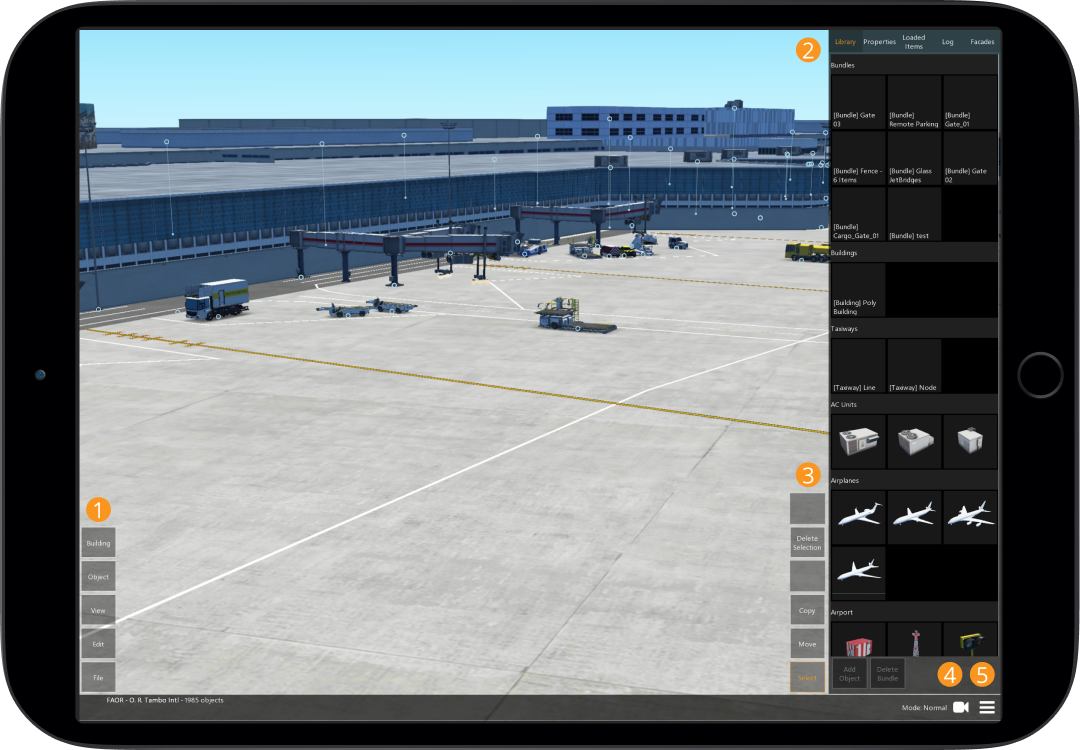
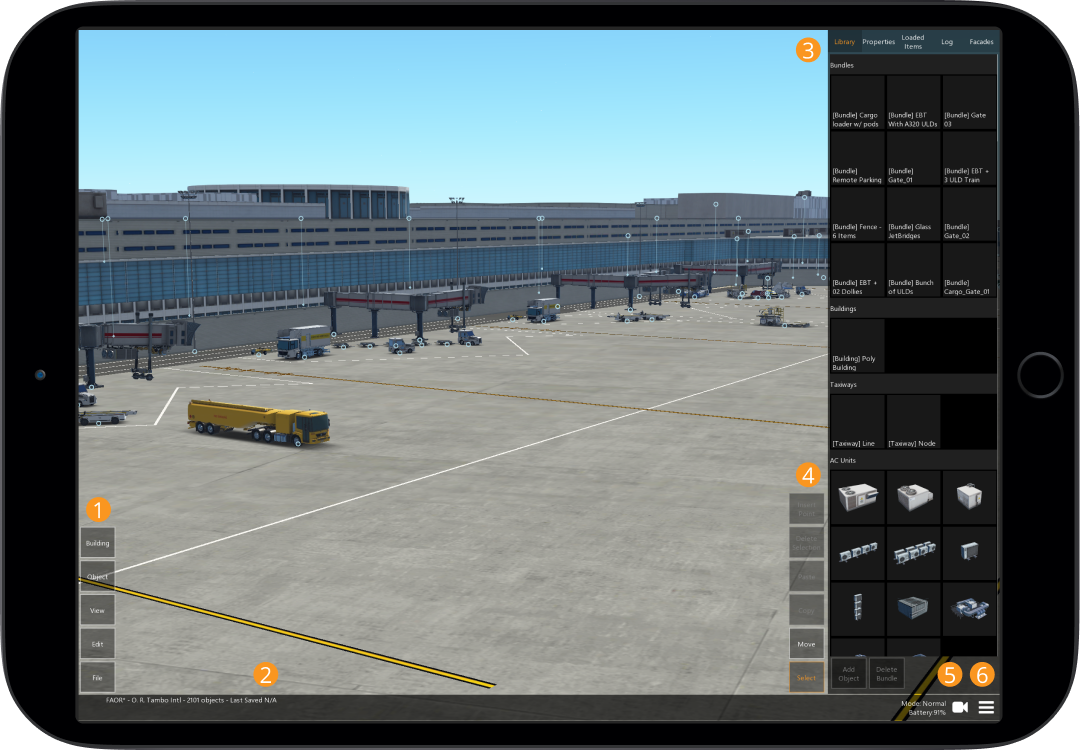
Staging Update
- [FIX: SCENERY EDITOR GUIDE] added final fixes for V2

diff --git a/scenery-editor/user-interface/editor-screen.md b/scenery-editor/user-interface/editor-screen.md
@@ -19,19 +19,23 @@ Welcome to the editor screen within the Infinite Flight app. Below you’ll find
 
     
 
-2. The main [navigation bar](/guide/scenery-editor/user-interface/editor-screen#navigation-bar) allows you to change between the library of objects, properties, loaded items, log and facades
+2. When a new editing session is started (even if you remain in-app), it will reset the "Last Saved" on the bottom bar to "N/A" (note: anything previously saved will still be there as the "last saved" information is only specific to the current editing session)
 
     
 
-3. The [edit buttons](/guide/scenery-editor/user-interface/editor-screen#edit-buttons) allow you to move, copy & paste, or deleted selected buildings and objects (you can also insert points if a building is selected)
+3. The main [navigation bar](/guide/scenery-editor/user-interface/editor-screen#navigation-bar) allows you to change between the library of objects, properties, loaded items, log and facades
 
-    
+     
 
-4. The [camera](/guide/scenery-editor/user-interface/editor-screen#camera) in use can be changed here
+4. The [edit buttons](/guide/scenery-editor/user-interface/editor-screen#edit-buttons) allow you to move, copy & paste, or deleted selected buildings and objects (you can also insert points if a building is selected)
 
-    
+     
 
-5. The [settings](/guide/scenery-editor/user-interface/editor-screen#settings) page can be shown by tapping this button
+5. The [camera](/guide/scenery-editor/user-interface/editor-screen#camera) in use can be changed here
+
+   
+
+6. The [settings](/guide/scenery-editor/user-interface/editor-screen#settings) page can be shown by tapping this button
 
 
 
@@ -63,17 +67,11 @@ Welcome to the editor screen within the Infinite Flight app. Below you’ll find
 | ------------------ | ------------------------------------------------------------ |
 | Undo               | Undo your latest edit                                        |
 | Redo               | Redo your latest edit                                        |
-| Selection (Add)    |                                                              |
-| Selection (Remove) |                                                              |
-| Lock Selected      | Locks the selected building(s) and/or object(s) and prevents them from being moved or their properties adjusted |
-| Unlock Selected    | Unlocks the selected building(s) and/or object(s) and allows them to be moved and their properties adjusted |
+| Selection (Add)    | Create a selection of several objects to move or edit them as a group. While "Selection (Add)" is active, all objects you select [by tapping on them or using the "rectangular selection tool"](/guide/scenery-editor/objects/selection-and-placement#selecting-and-placing-an-object) will be added to the selection |
+| Selection (Remove) | Objects that are selected [by tapping on them or using the "rectangular selection tool"](/guide/scenery-editor/objects/selection-and-placement#selecting-and-placing-an-object) while the "Selection (Remove)" feature is active are removed from the existing selection |
+| Lock Selected      | Locks the selected building(s) and/or object(s) and prevents them from being moved or their properties adjusted. For more information check out the Frozen function within [Properties](/guide/scenery-editor/buildings-and-facades/properties) |
+| Unlock Selected    | Unlocks the selected building(s) and/or object(s) and allows them to be moved and their properties adjusted. For more information check out the Frozen function within [Properties](/guide/scenery-editor/buildings-and-facades/properties) |
 | Unlock All         | Unlocks all building(s) and/or object(s) and allows them to be moved and their properties adjusted |
-
-
-
-Add something about selection add/remove
-
-See freezing bits in properties for lock/unlock selected
 
 +++
 

diff --git a/scenery-editor/index.md b/scenery-editor/index.md
@@ -14,20 +14,20 @@ Welcome to the Scenery Editor Guide, designed to help newly qualified and vetera
 
 ## Version: 21.3.0
 
-## Last Updated: 1745Z - 20 JUN 21
+## Last Updated: 1330Z - 21 JUN 21
 
 
 
 **Important Getting Started Rules:**
 
-- Deliberate leaks will result in access to beta, editing and potentially IFC/VA accounts to be removed
+- Deliberate leaks will result in access to beta, editing and potentially IFC/VA accounts being removed
 - All communication must be via the IFC Forum in the correct category, any deviation from this is treated as a leak and may be subject to the same loss of access as a deliberate leak
-- Editors are allowed to pick their first airport provided it is not too big (however this must still be approved before commencement of editing). Following this, airport selection is strictly controlled and you must receive permission to deviate from the pre-approved list
-- On occasion, volunteers may be sort for specific airports to be completed, or if necessary, editors may be assigned a particular airport for completion
+- Editors are permitted a choice of their first few airports (these must be approved by staff before work can commence). Following this, airport selection is strictly controlled and you must receive permission to deviate from the pre-approved list
+- On occasion, volunteers may be sought for specific airports to be completed, or if necessary, editors may be assigned a particular airport for completion
 - Activity is not expected to be continuous however all editors are asked to try to maintain a consistent level (please inform us if this is not possible)
-- Major HUBs can take a month or more to complete if only a few hours are completed every week, or in a few days if worked on continuously
+- Major hubs can take a month or more to complete if only a few hours are completed every week, or in a few days if worked on continuously
 - The editing process is complex and so questions are encouraged however this guide should be read through in it's entirety before any editing is attempted
-- Only work on airport that have been assigned, never work on an airport that has been edited unless you have permission to do so 
+- Only work on airports that have been assigned, never work on an airport that has been edited unless you have permission to do so 
 
 
 

diff --git a/scenery-editor/objects/technical-locations.md b/scenery-editor/objects/technical-locations.md
@@ -11,6 +11,12 @@ order: 4
 
 
 
+Tip
+
+: Don't forget that airport charts are a great way to see the placement of equipment such as the localizer
+
+
+
 ## Localizer
 
 ![Localizer Location](_images/manual/frames/localizer.png)
@@ -68,5 +74,5 @@ order: 4
 
 - Have a look online to see if you can find airport images that will help with object placement
 - Look up the charts for an airport, in particular the ground charts as these will often show the location of windsock(s), the tower(s), cargo area(s) and fire station(s)
-- Google satellite maps are your friend
+- Using multiple satellite maps for cross-referencing 
 - The tips above on localizer and glideslope locations are for standard approaches ONLY. Places like LOWI are a special case - if in doubt, just ask!

diff --git a/scenery-editor/buildings-and-facades/editing-buildings.md b/scenery-editor/buildings-and-facades/editing-buildings.md
@@ -111,7 +111,7 @@ Step 4
 
 Step 5
 
-: [Using the management buttons](/guide/scenery-editor/user-interface/editor-screen#management-buttons) on the left of the screen, tap "Object" and then "Auto Altitude". This will raise the newly copied building to make it the second layer (roof height of the first layer)
+: [Using the management buttons](/guide/scenery-editor/user-interface/editor-screen#management-buttons) on the left of the screen, tap "Object" and then "Auto Altitude". This will raise the newly copied building to make it the second layer (roof height of the first layer). You can also set the [height](/guide/scenery-editor/buildings-and-facades/properties) of the building manually if needed for the same effect
 
 
 

diff --git a/scenery-editor/getting-started/general-rules.md b/scenery-editor/getting-started/general-rules.md
@@ -20,7 +20,7 @@ The following rules must be observed at all times when editing airports:
 - Keep objects and facades as realistic as possible
 - Do not add objects to fill empty spaces if there are no objects shown on maps
 - Only edit the airports allocated to you
-- No custom ATC Towers are permitted (the only exception to this is when the tower cab is placed in/on a poly building however poly buildings must not be used to make "support" legs)
+- Customs towers are only permitted when a tower cab - i.e. when the tower cab is placed in/on a poly building (poly buildings must not be used to make "support" legs)
 
 
 
